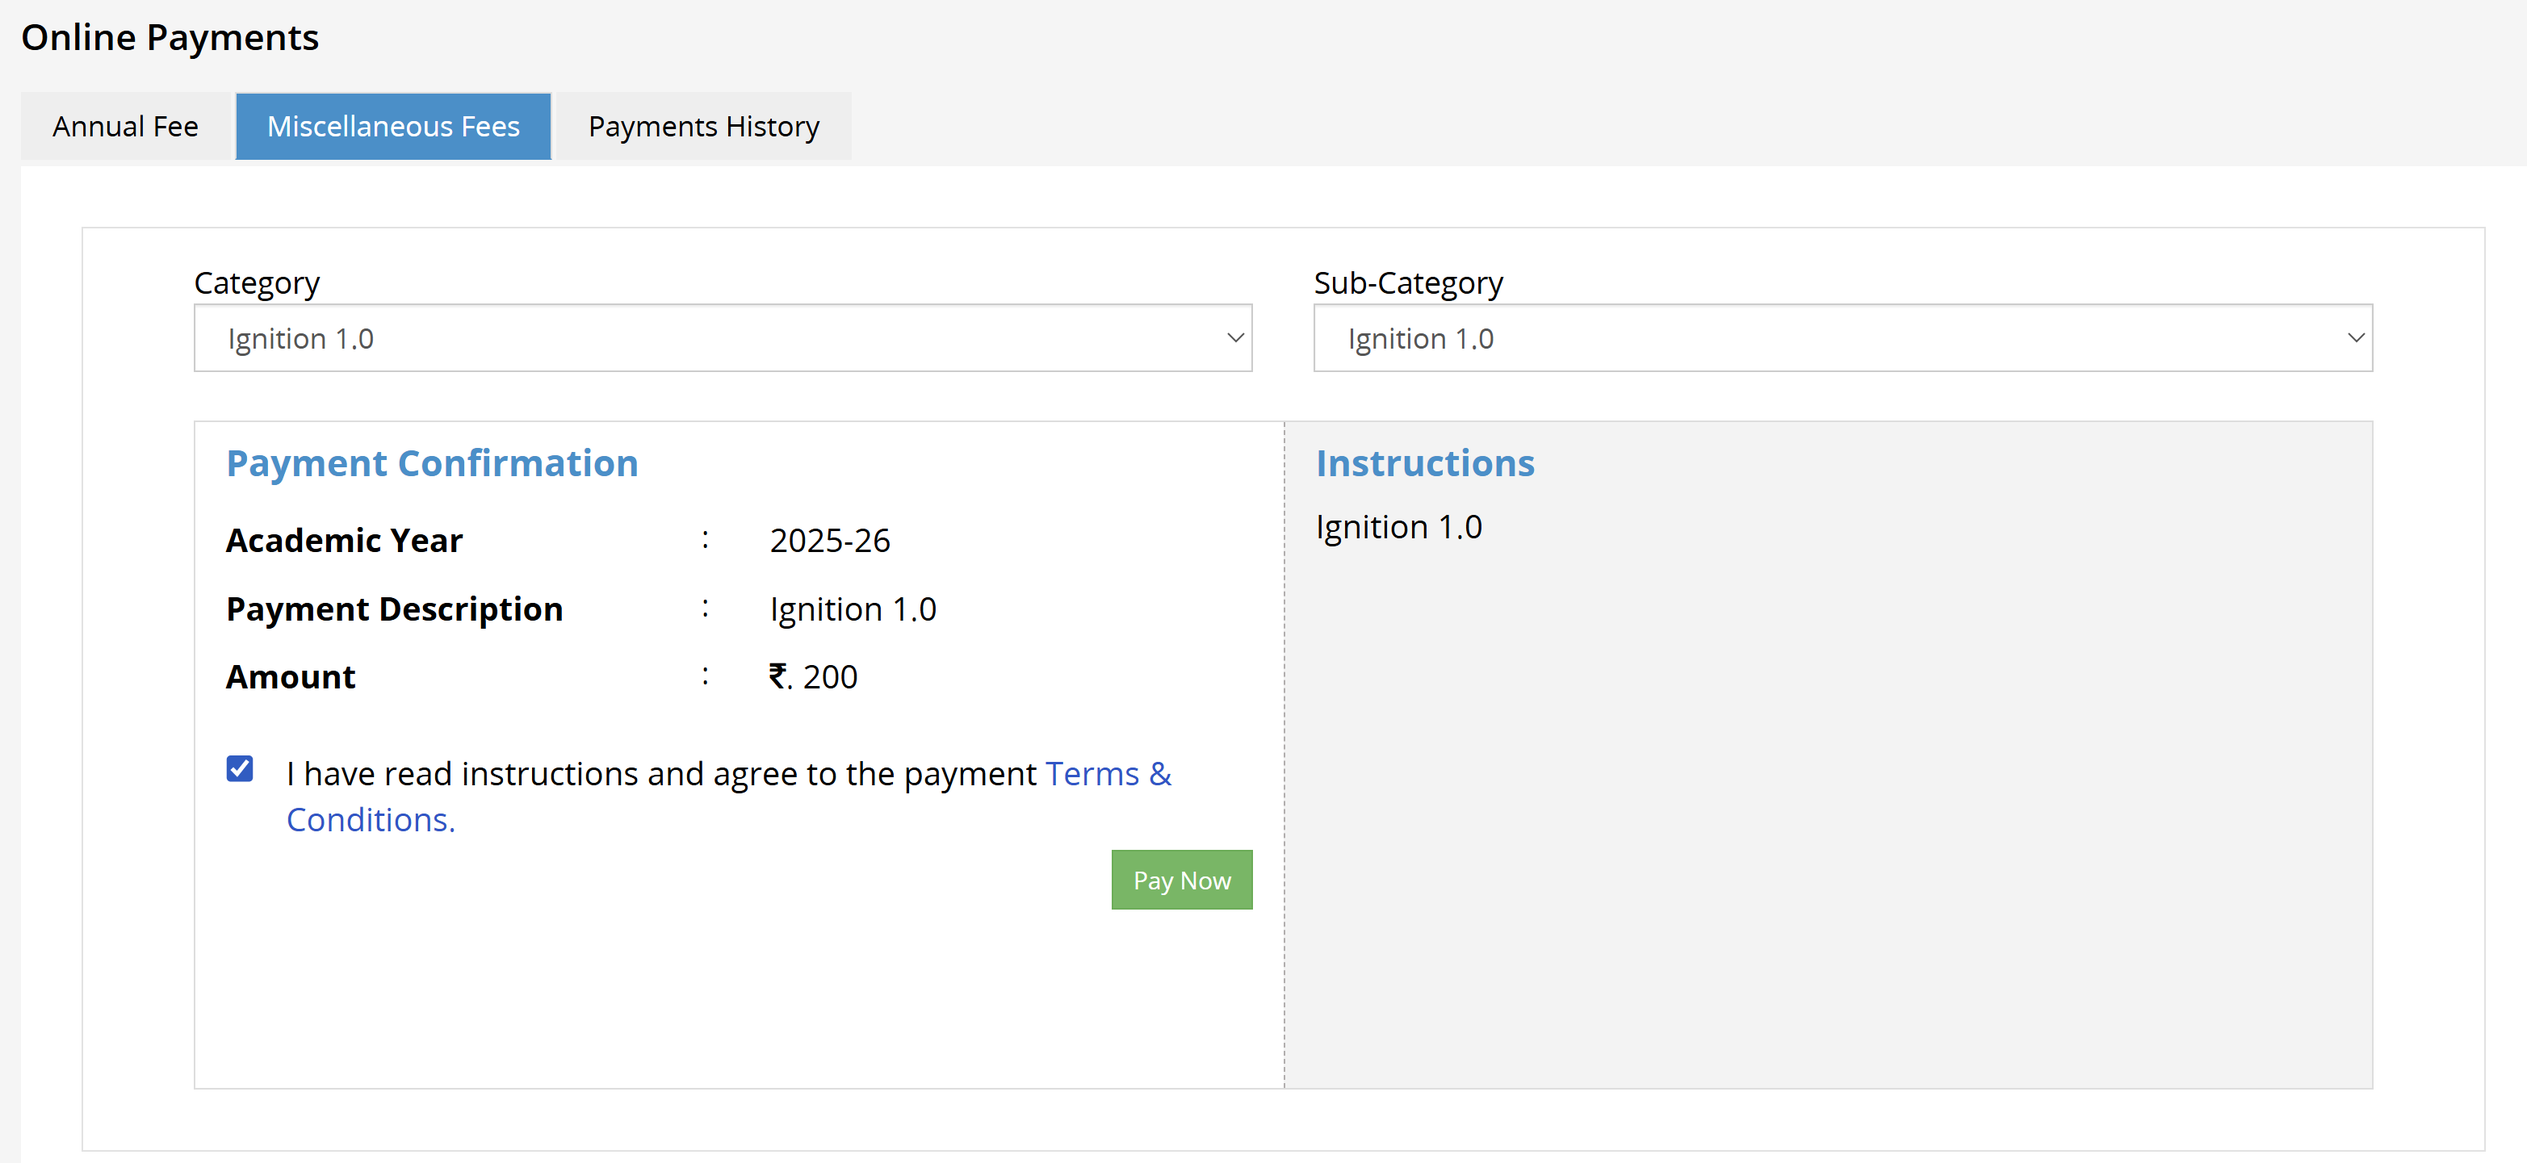
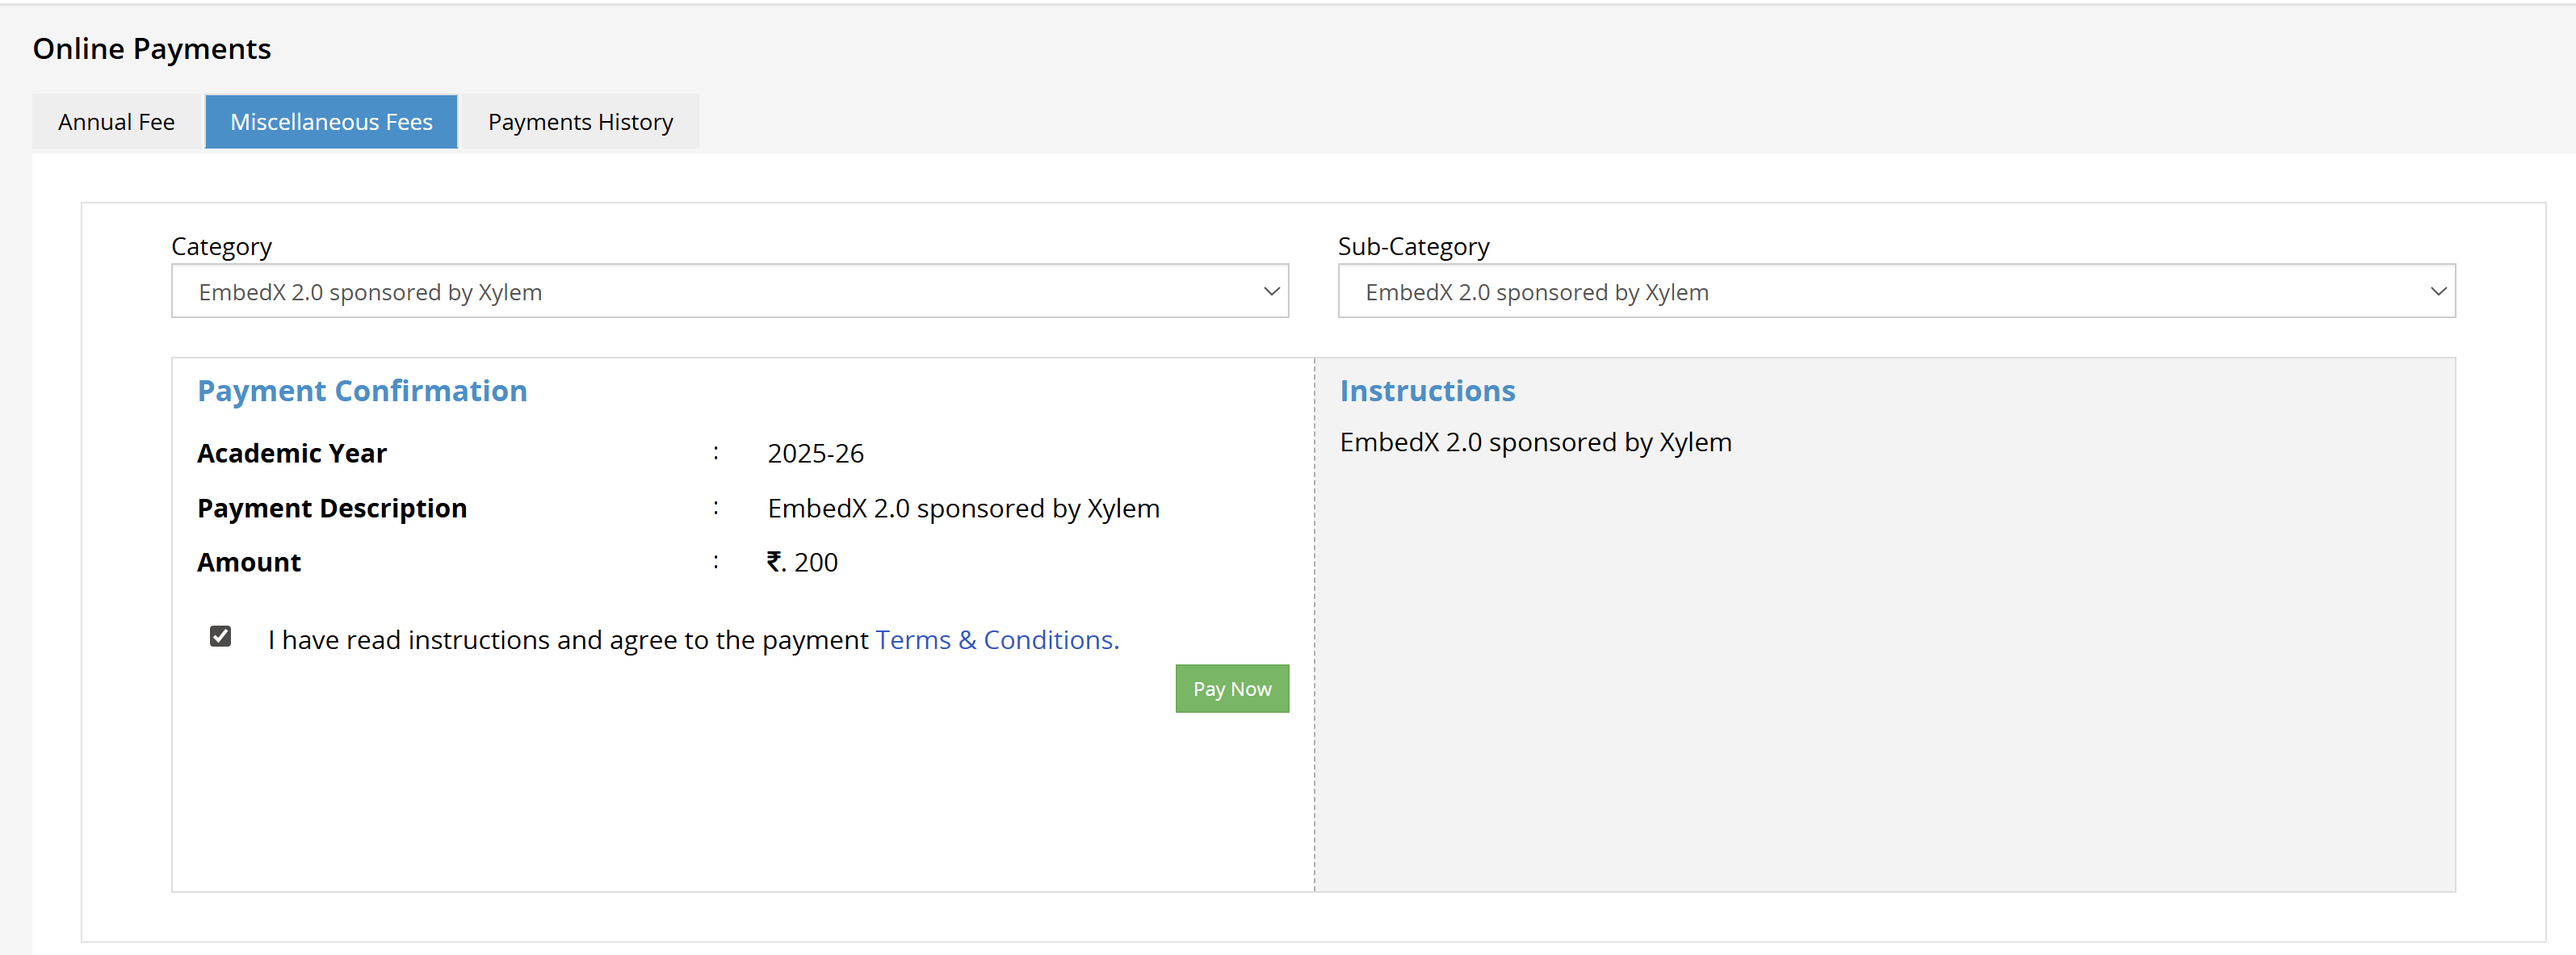
Make semester selection single-select (radio)

diff --git a/src/app/embedx-2/page.tsx b/src/app/embedx-2/page.tsx
@@ -484,25 +484,21 @@ export default function Page() {
                                   className={`w-full p-3 bg-gray-800 border rounded-lg text-white placeholder-gray-400 focus:border-orange-500 focus:outline-none ${memberErrors[index] && memberErrors[index].includes('Phone') ? 'border-red-500 ring-1 ring-red-500' : 'border-gray-600'}`}
                                   required={index < 3}
                                 />
-                                {/* Semester as checkboxes */}
+                                {/* Semester as radio buttons (single select) */}
                                 <div className={`mb-2 ${memberErrors[index] && memberErrors[index].includes('Semester') ? 'ring-1 ring-red-500 rounded-md' : ''}`}>
-                                  <div className="text-sm text-gray-400 mb-2">Select semester (choose all that apply)</div>
+                                  <div className="text-sm text-gray-400 mb-2">Select semester</div>
                                   <div className="flex flex-wrap gap-2">
                                     {["2", "4", "6", "8"].map(opt => {
-                                      const checked = Array.isArray(member.semester) ? member.semester.includes(opt) : member.semester === opt;
+                                      const checked = Array.isArray(member.semester) ? member.semester[0] === opt : member.semester === opt;
                                       return (
                                         <label key={opt} className={`inline-flex items-center gap-2 px-3 py-2 rounded-md cursor-pointer border ${checked ? 'bg-green-700 border-green-500 text-white' : 'bg-gray-800/30 border-gray-700 text-gray-200'}`}>
                                           <input
-                                            type="checkbox"
+                                            type="radio"
                                             className="hidden"
                                             checked={checked}
                                             onChange={() => {
                                               const newMembers = [...formData.members];
-                                              let curr = Array.isArray(member.semester) ? [...member.semester] : member.semester ? [member.semester] : [];
-                                              const idxIn = curr.indexOf(opt);
-                                              if (idxIn > -1) curr.splice(idxIn, 1);
-                                              else curr.push(opt);
-                                              newMembers[index] = { ...member, semester: curr };
+                                              newMembers[index] = { ...member, semester: [opt] };
                                               setFormData({ ...formData, members: newMembers });
                                             }}
                                           />
